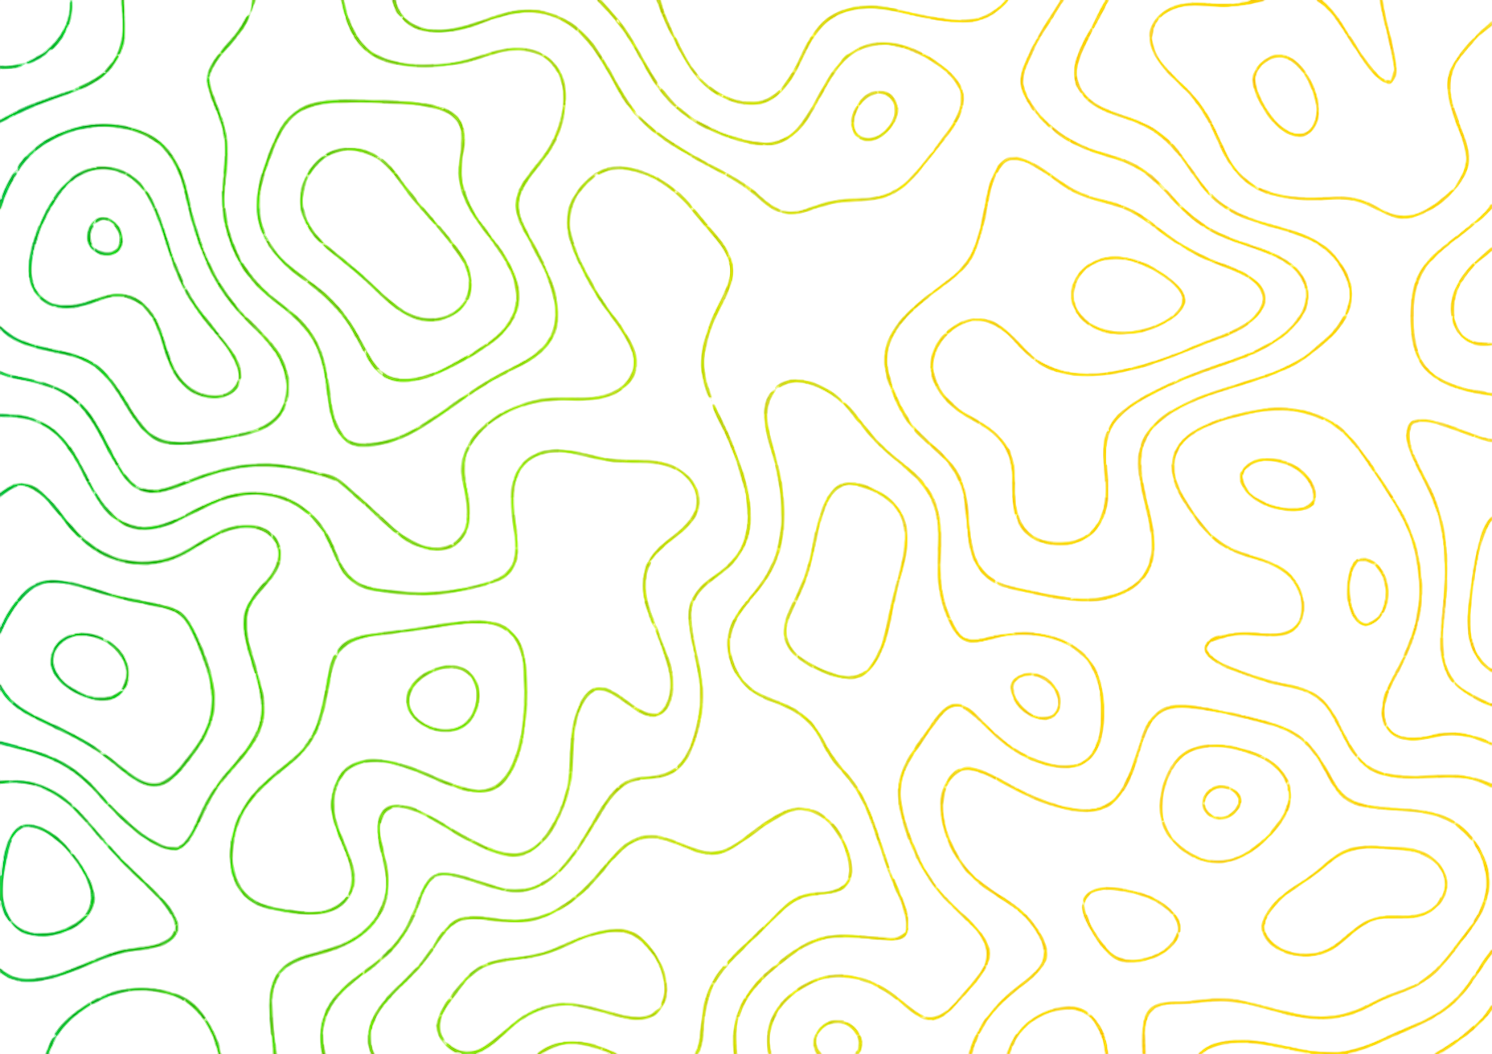
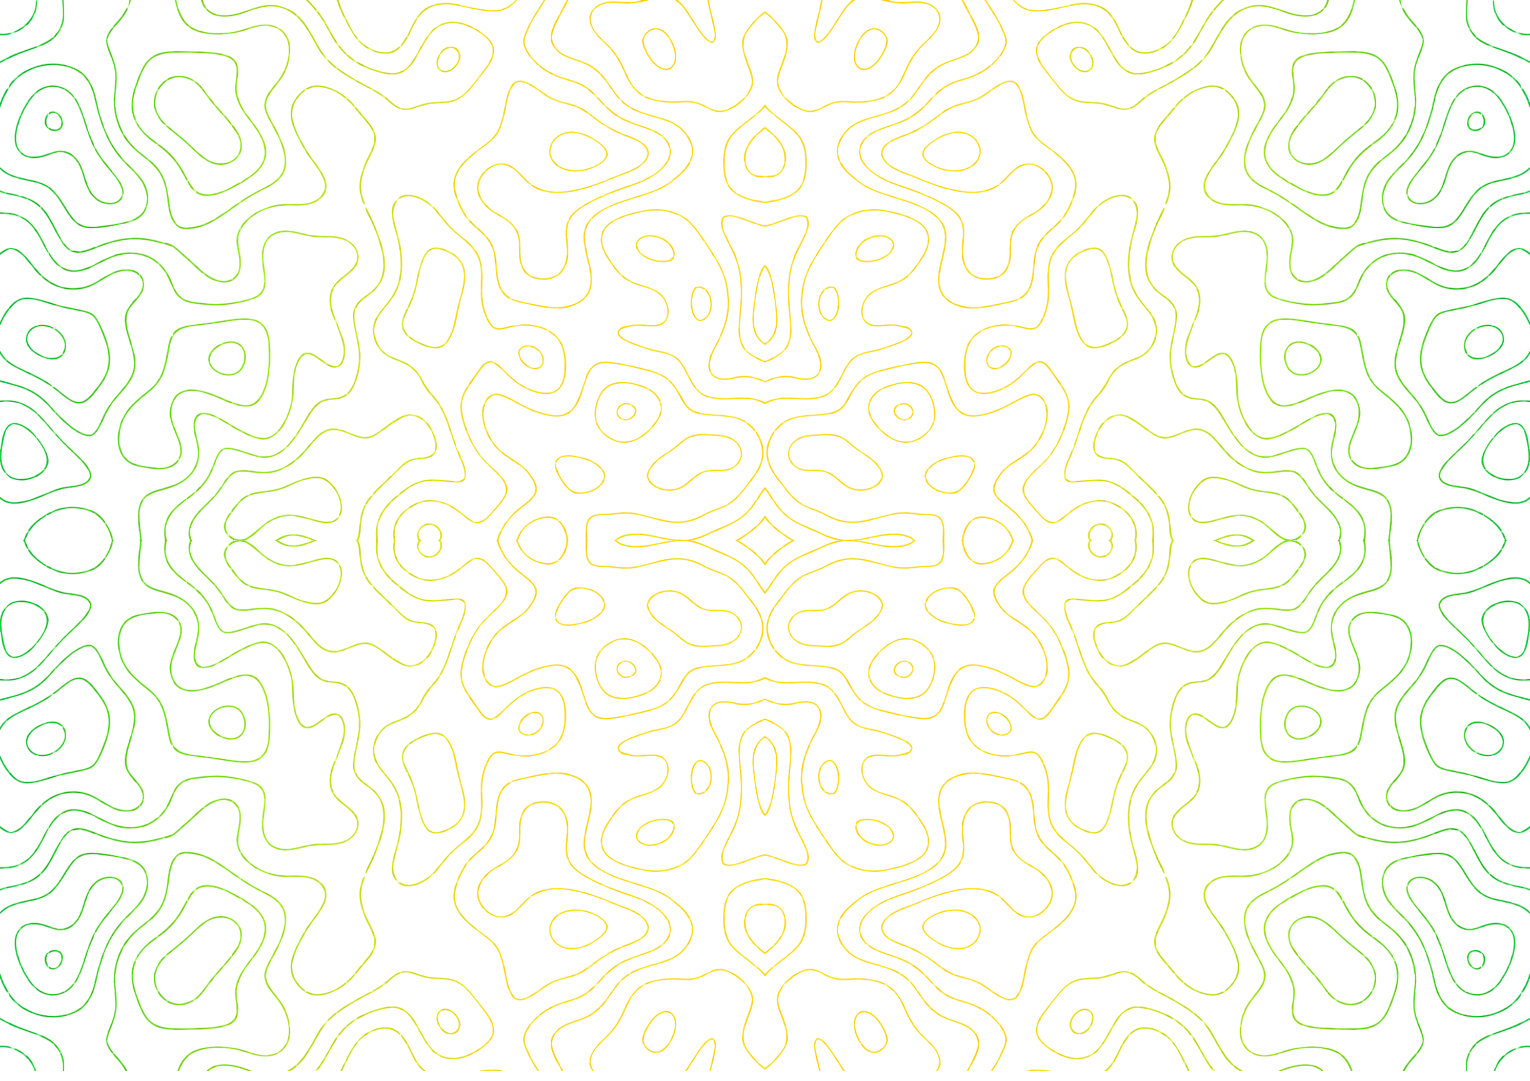
feat:team page background updated

Changed region(s): [[0.0, 0.0, 1.0, 1.0], [0.2466, 0.1518, 0.2775, 0.1822]]

diff --git a/src/components/common/navbar.tsx b/src/components/common/navbar.tsx
@@ -96,78 +96,79 @@ export default function Navbar() {
   };
 
   return (
-    <nav 
-      className={`fixed top-0 left-0 right-0 z-50 transition-all duration-300 flex items-center px-6 md:px-12 lg:px-16 ${
-        scrolled
-          ? "h-20 bg-[#F4F1E8]/90 backdrop-blur-xl border-b border-[#0F172A]/10 shadow-sm"
-          : "h-24 bg-transparent"
-      }`}
-    >
-      
-      {/* Logo (Left) */}
-      <div className="flex-1 flex justify-start">
-        <Link href="/" className="flex items-center group">
-          <img 
-            src="/logo/logo.png" 
-            alt="Mango Peel Ads" 
-            className="h-10 md:h-12 lg:h-14 w-auto object-contain transition-transform duration-300 group-hover:scale-[1.02]" 
-          />
-        </Link>
-      </div>
+    <>
+      <nav 
+        className={`fixed top-0 left-0 right-0 z-50 transition-all duration-300 flex items-center px-6 md:px-12 lg:px-16 ${
+          scrolled
+            ? "h-20 bg-[#F4F1E8]/90 backdrop-blur-xl border-b border-[#0F172A]/10 shadow-sm"
+            : "h-24 bg-transparent"
+        }`}
+      >
+        {/* Logo (Left) */}
+        <div className="flex-1 flex justify-start">
+          <Link href="/" className="flex items-center group">
+            <img 
+              src="/logo/logo.png" 
+              alt="Mango Peel Ads" 
+              className="h-10 md:h-12 lg:h-14 w-auto object-contain transition-transform duration-300 group-hover:scale-[1.02]" 
+            />
+          </Link>
+        </div>
 
-      {/* Navigation Links (Center - Desktop Glassmorphic Pill) */}
-      <div className="hidden md:flex flex-none items-center justify-center gap-1 lg:gap-2 bg-white/75 backdrop-blur-md px-3 py-1.5 lg:px-4 lg:py-1.5 rounded-full border border-[#0F172A]/10 shadow-xs">
-        {navLinks.map((link) => {
-          const isActive = 
-            link.href === "/" ? pathname === "/" : pathname.startsWith(link.href);
+        {/* Navigation Links (Center - Desktop Glassmorphic Pill) */}
+        <div className="hidden md:flex flex-none items-center justify-center gap-1 lg:gap-2 bg-white/75 backdrop-blur-md px-3 py-1.5 lg:px-4 lg:py-1.5 rounded-full border border-[#0F172A]/10 shadow-xs">
+          {navLinks.map((link) => {
+            const isActive = 
+              link.href === "/" ? pathname === "/" : pathname.startsWith(link.href);
 
-          return (
-            <Link 
-              key={link.name} 
-              href={link.href} 
-              className={`relative px-3.5 py-1.5 lg:px-4 lg:py-2 text-[13px] lg:text-[14.5px] rounded-full transition-all duration-300 ${
-                isActive 
-                  ? "text-[#0F172A] font-bold bg-[#FFB800]/25 shadow-2xs" 
-                  : "text-[#475569] font-medium hover:text-[#0F172A] hover:bg-[#0F172A]/5"
-              }`}
-            >
-              <span className="relative z-10 flex items-center gap-1.5">
-                {link.name}
-                {isActive && (
-                  <span className="w-1.5 h-1.5 rounded-full bg-[#FFB800] shadow-[0_0_6px_#FFB800]" />
-                )}
-              </span>
-            </Link>
-          );
-        })}
-      </div>
+            return (
+              <Link 
+                key={link.name} 
+                href={link.href} 
+                className={`relative px-3.5 py-1.5 lg:px-4 lg:py-2 text-[13px] lg:text-[14.5px] rounded-full transition-all duration-300 ${
+                  isActive 
+                    ? "text-[#0F172A] font-bold bg-[#FFB800]/25 shadow-2xs" 
+                    : "text-[#475569] font-medium hover:text-[#0F172A] hover:bg-[#0F172A]/5"
+                }`}
+              >
+                <span className="relative z-10 flex items-center gap-1.5">
+                  {link.name}
+                  {isActive && (
+                    <span className="w-1.5 h-1.5 rounded-full bg-[#FFB800] shadow-[0_0_6px_#FFB800]" />
+                  )}
+                </span>
+              </Link>
+            );
+          })}
+        </div>
 
-      {/* CTA Button & Hamburger Menu (Right) */}
-      <div className="flex-1 flex justify-end items-center gap-2.5 sm:gap-3">
-        <Link 
-          href="/contact"
-          className="group relative inline-flex items-center gap-1.5 sm:gap-2 bg-[#1A3626] text-white px-4 py-2 sm:px-5 sm:py-2.5 lg:px-6 lg:py-3 rounded-full text-[12px] sm:text-[13px] lg:text-[14px] font-semibold tracking-wide hover:bg-[#FFB800] hover:text-[#0F172A] transition-all duration-300 shadow-sm hover:shadow-md active:scale-95"
-        >
-          <span>Let's Talk</span>
-          <ArrowUpRight 
-            className="w-4 h-4 sm:w-[18px] sm:h-[18px] transition-transform duration-300 group-hover:translate-x-0.5 group-hover:-translate-y-0.5" 
-            strokeWidth={2.5} 
-          />
-        </Link>
+        {/* CTA Button & Hamburger Menu (Right) */}
+        <div className="flex-1 flex justify-end items-center gap-2.5 sm:gap-3">
+          <Link 
+            href="/contact"
+            className="group relative inline-flex items-center gap-1.5 sm:gap-2 bg-[#1A3626] text-white px-4 py-2 sm:px-5 sm:py-2.5 lg:px-6 lg:py-3 rounded-full text-[12px] sm:text-[13px] lg:text-[14px] font-semibold tracking-wide hover:bg-[#FFB800] hover:text-[#0F172A] transition-all duration-300 shadow-sm hover:shadow-md active:scale-95"
+          >
+            <span>Let's Talk</span>
+            <ArrowUpRight 
+              className="w-4 h-4 sm:w-[18px] sm:h-[18px] transition-transform duration-300 group-hover:translate-x-0.5 group-hover:-translate-y-0.5" 
+              strokeWidth={2.5} 
+            />
+          </Link>
 
-        {/* Hamburger Menu Toggle (Mobile Only) */}
-        <button
-          type="button"
-          onClick={() => setMobileMenuOpen(true)}
-          className="md:hidden flex items-center justify-center w-10 h-10 sm:w-11 sm:h-11 rounded-full bg-white/90 border border-[#0F172A]/10 text-[#0F172A] hover:bg-white hover:border-[#FFB800]/50 transition-all duration-300 shadow-sm active:scale-95 focus:outline-none focus:ring-2 focus:ring-[#1A3626]/20"
-          aria-label="Open mobile menu"
-          aria-expanded={mobileMenuOpen}
-        >
-          <Menu size={20} strokeWidth={2.5} />
-        </button>
-      </div>
+          {/* Hamburger Menu Toggle (Mobile Only) */}
+          <button
+            type="button"
+            onClick={() => setMobileMenuOpen(true)}
+            className="md:hidden flex items-center justify-center w-10 h-10 sm:w-11 sm:h-11 rounded-full bg-white/90 border border-[#0F172A]/10 text-[#0F172A] hover:bg-white hover:border-[#FFB800]/50 transition-all duration-300 shadow-sm active:scale-95 focus:outline-none focus:ring-2 focus:ring-[#1A3626]/20"
+            aria-label="Open mobile menu"
+            aria-expanded={mobileMenuOpen}
+          >
+            <Menu size={20} strokeWidth={2.5} />
+          </button>
+        </div>
+      </nav>
 
-      {/* Full-Screen Immersive Mobile Menu Overlay */}
+      {/* Full-Screen Immersive Mobile Menu Overlay (Outside <nav> to avoid CSS backdrop-blur containing block trapping) */}
       <AnimatePresence>
         {mobileMenuOpen && (
           <motion.div 
@@ -175,7 +176,7 @@ export default function Navbar() {
             initial="hidden"
             animate="visible"
             exit="exit"
-            className="fixed inset-0 z-50 md:hidden bg-[#F4F1E8] flex flex-col justify-between overflow-hidden"
+            className="fixed inset-0 z-[100] md:hidden bg-[#F4F1E8] flex flex-col justify-between overflow-hidden"
             style={{
               backgroundImage: 'url("/bg/french-stucco.png")',
               backgroundRepeat: 'repeat',
@@ -192,7 +193,7 @@ export default function Navbar() {
             />
 
             {/* Header / Top Bar Inside Overlay */}
-            <div className="h-24 px-6 flex items-center justify-between relative z-10 border-b border-[#0F172A]/10">
+            <div className="h-24 px-6 flex items-center justify-between relative z-10 border-b border-[#0F172A]/10 shrink-0">
               <Link
                 href="/"
                 onClick={() => setMobileMenuOpen(false)}
@@ -208,7 +209,7 @@ export default function Navbar() {
               <button
                 type="button"
                 onClick={() => setMobileMenuOpen(false)}
-                className="flex items-center gap-2 px-4 py-2 rounded-full bg-white/90 border border-[#0F172A]/10 text-[#0F172A] hover:bg-white hover:border-[#FFB800] transition-all duration-300 shadow-sm active:scale-95"
+                className="flex items-center gap-2 px-4 py-2 rounded-full bg-white/90 border border-[#0F172A]/10 text-[#0F172A] hover:bg-white hover:border-[#FFB800] transition-all duration-300 shadow-sm active:scale-95 cursor-pointer"
                 aria-label="Close mobile menu"
               >
                 <span className="text-xs font-semibold tracking-wider uppercase">Close</span>
@@ -274,7 +275,7 @@ export default function Navbar() {
             {/* Bottom Footer Area */}
             <motion.div 
               variants={menuItemVariants}
-              className="px-6 py-5 border-t border-[#0F172A]/10 bg-white/50 backdrop-blur-md relative z-10"
+              className="px-6 py-5 border-t border-[#0F172A]/10 bg-white/50 backdrop-blur-md relative z-10 shrink-0"
             >
               <div className="flex flex-col sm:flex-row items-start sm:items-center justify-between gap-4 max-w-lg mx-auto w-full">
                 <div>
@@ -305,7 +306,6 @@ export default function Navbar() {
           </motion.div>
         )}
       </AnimatePresence>
-
-    </nav>
+    </>
   );
 }

diff --git a/src/app/works/page.tsx b/src/app/works/page.tsx
@@ -259,7 +259,13 @@ export default function WorksPage() {
       : allWorks.filter((w) => w.category === activeFilter);
 
   return (
-    <main className="w-full min-h-screen overflow-hidden">
+    <main 
+      className="w-full min-h-screen overflow-hidden bg-[#F4F1E8]"
+      style={{
+        backgroundImage: 'url("/bg/french-stucco.png")',
+        backgroundRepeat: 'repeat',
+      }}
+    >
       <section className="relative w-full flex flex-col items-center px-4 sm:px-6 lg:px-10 py-28 pb-20">
 
         {/* ===== DECORATIVE BACKGROUND ELEMENTS (matching Teams page) ===== */}

diff --git a/src/app/teams/page.tsx b/src/app/teams/page.tsx
@@ -58,7 +58,7 @@ export default function TeamPage() {
 
                 {/* Background Lines */}
                 <div 
-                    className="absolute inset-0 z-0 pointer-events-none opacity-25"
+                    className="absolute inset-0 z-0 pointer-events-none opacity-50"
                     style={{ 
                         backgroundImage: 'url("/assets/images/bg-lines.png")', 
                         backgroundSize: '800px', // Adjust this value to make lines smaller or larger

diff --git a/src/app/page.tsx b/src/app/page.tsx
@@ -9,7 +9,13 @@ import CTASection from "@/components/sections/cta";
 
 export default function Home() {
   return (
-    <main className="w-full min-h-screen">
+    <main 
+      className="w-full min-h-screen bg-[#F4F1E8]"
+      style={{
+        backgroundImage: 'url("/bg/french-stucco.png")',
+        backgroundRepeat: 'repeat',
+      }}
+    >
       <HeroSection />
       <IntroSection />
       <AboutSection />
